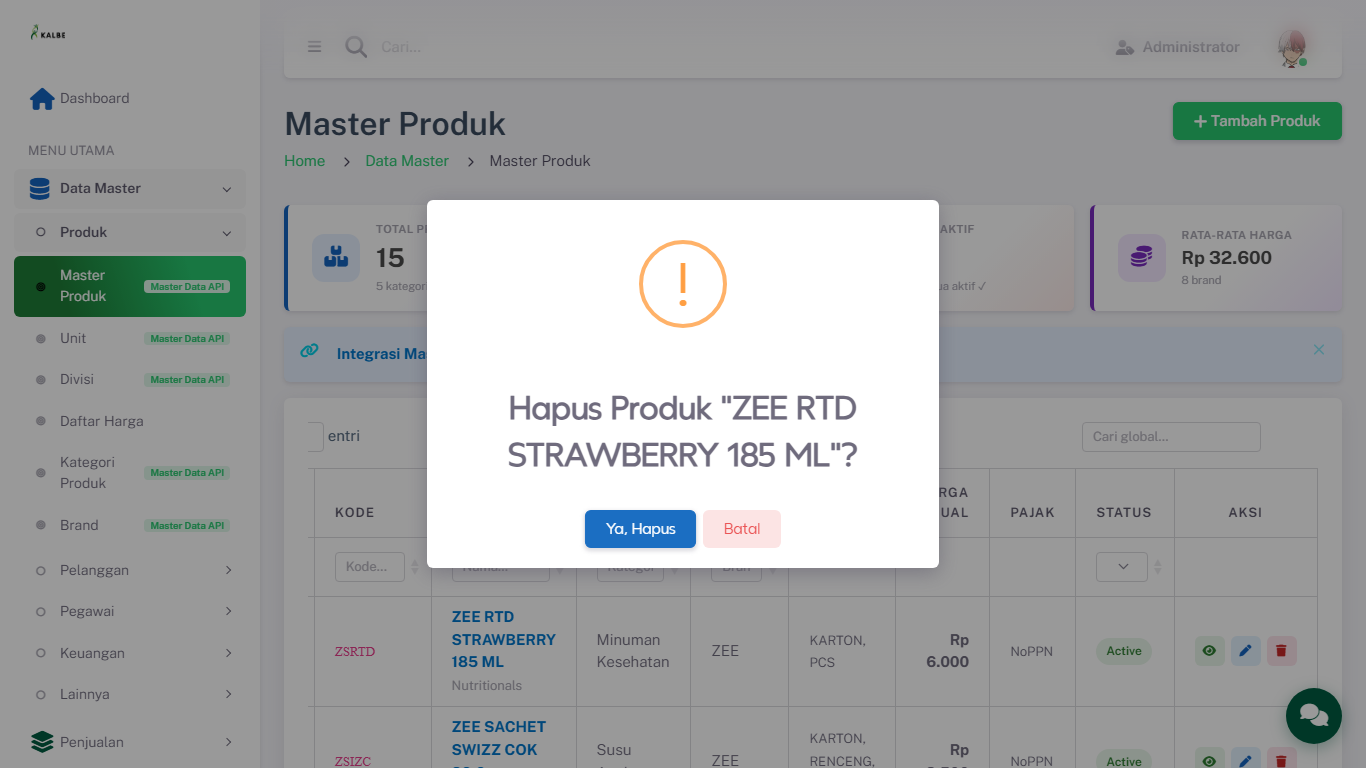
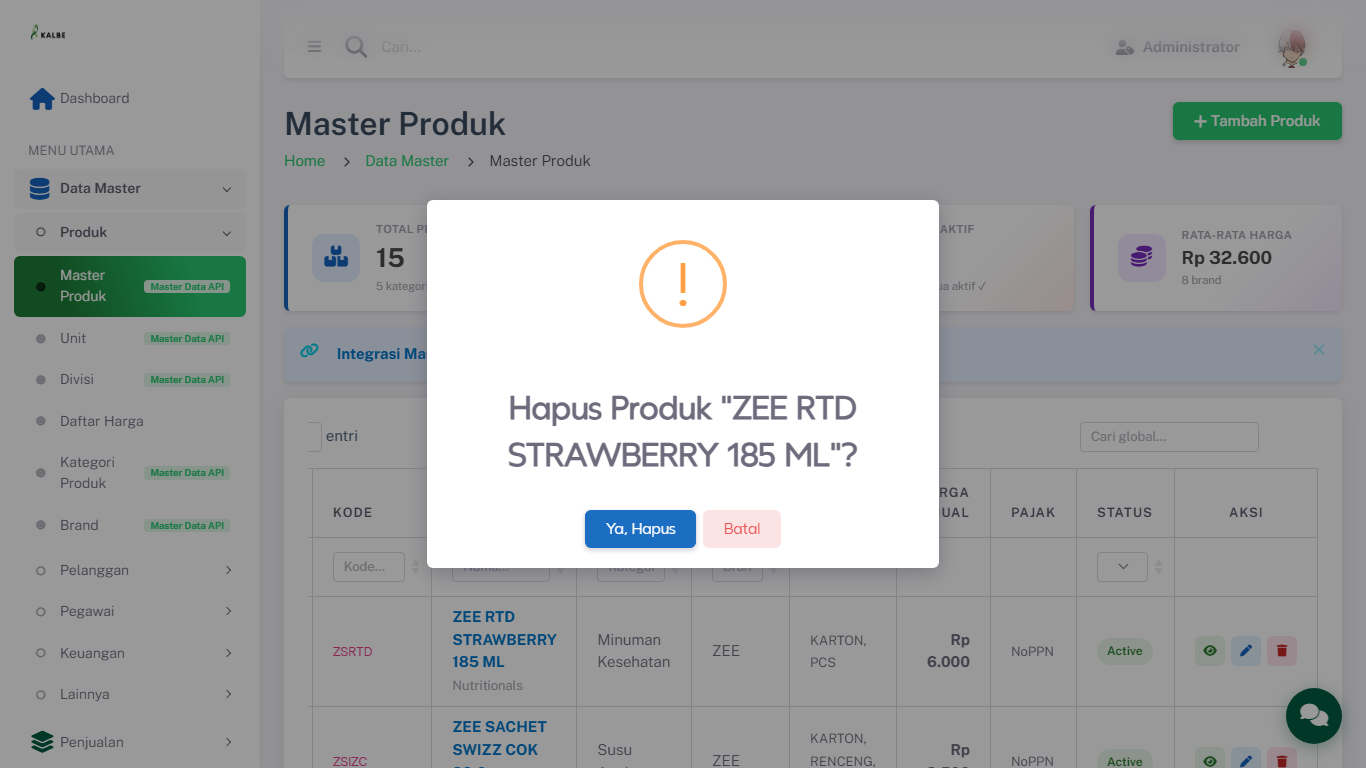
auto retry

diff --git a/lib/fsd/fsd-flow-llm.js b/lib/fsd/fsd-flow-llm.js
@@ -74,6 +74,9 @@ function buildFlowUserPrompt(moduleConfig, spec, sections, scriptFlow) {
     return parts.filter(Boolean).join('\n');
 }
 
+const RETRYABLE_STATUS = new Set([429, 500, 502, 503, 504]);
+const MAX_GEMINI_ATTEMPTS = 6;
+
 async function callGeminiFlow(systemPrompt, userPrompt, geminiKey, model, attempt = 0) {
     const url = 'https://generativelanguage.googleapis.com/v1beta/models/' +
         encodeURIComponent(model) + ':generateContent?key=' + encodeURIComponent(geminiKey);
@@ -90,14 +93,22 @@ async function callGeminiFlow(systemPrompt, userPrompt, geminiKey, model, attemp
         }),
     });
 
-    if (res.status === 429 && attempt < 3) {
-        await sleep(2000 * Math.pow(2, attempt));
+    if (RETRYABLE_STATUS.has(res.status) && attempt < MAX_GEMINI_ATTEMPTS) {
+        const delay = 3000 * Math.pow(2, attempt);
+        await sleep(delay);
         return callGeminiFlow(systemPrompt, userPrompt, geminiKey, model, attempt + 1);
     }
 
     if (!res.ok) {
         const errText = await res.text();
+        const fallback = process.env.FSD_GEMINI_FALLBACK_MODEL;
+        if (fallback && fallback !== model && RETRYABLE_STATUS.has(res.status)) {
+            return callGeminiFlow(systemPrompt, userPrompt, geminiKey, fallback, 0);
+        }
         if (res.status === 429) throw new Error('Quota Gemini habis');
+        if (res.status === 503) {
+            throw new Error('Gemini sibuk (503) — coba lagi beberapa menit atau set FSD_GEMINI_FALLBACK_MODEL=gemini-2.5-flash-lite');
+        }
         throw new Error('Gemini error ' + res.status + ': ' + errText.slice(0, 200));
     }
 

diff --git a/wwwroot/js/generate-fsd.js b/wwwroot/js/generate-fsd.js
@@ -355,6 +355,9 @@ const GenerateFSD = {
         if (msg.includes('Quota') || msg.includes('429')) {
             text = 'Quota Gemini habis. Coba lagi nanti atau ganti GEMINI_MODEL di environment.';
         }
+        if (msg.includes('503') || msg.includes('Gemini sibuk')) {
+            text = 'Gemini sedang sibuk (503). Tunggu 2–5 menit lalu Generate lagi, atau pakai Smart Generate (cache AI) jika sudah pernah berhasil.';
+        }
         if (msg.includes('Batas generate')) {
             text = msg;
         }
